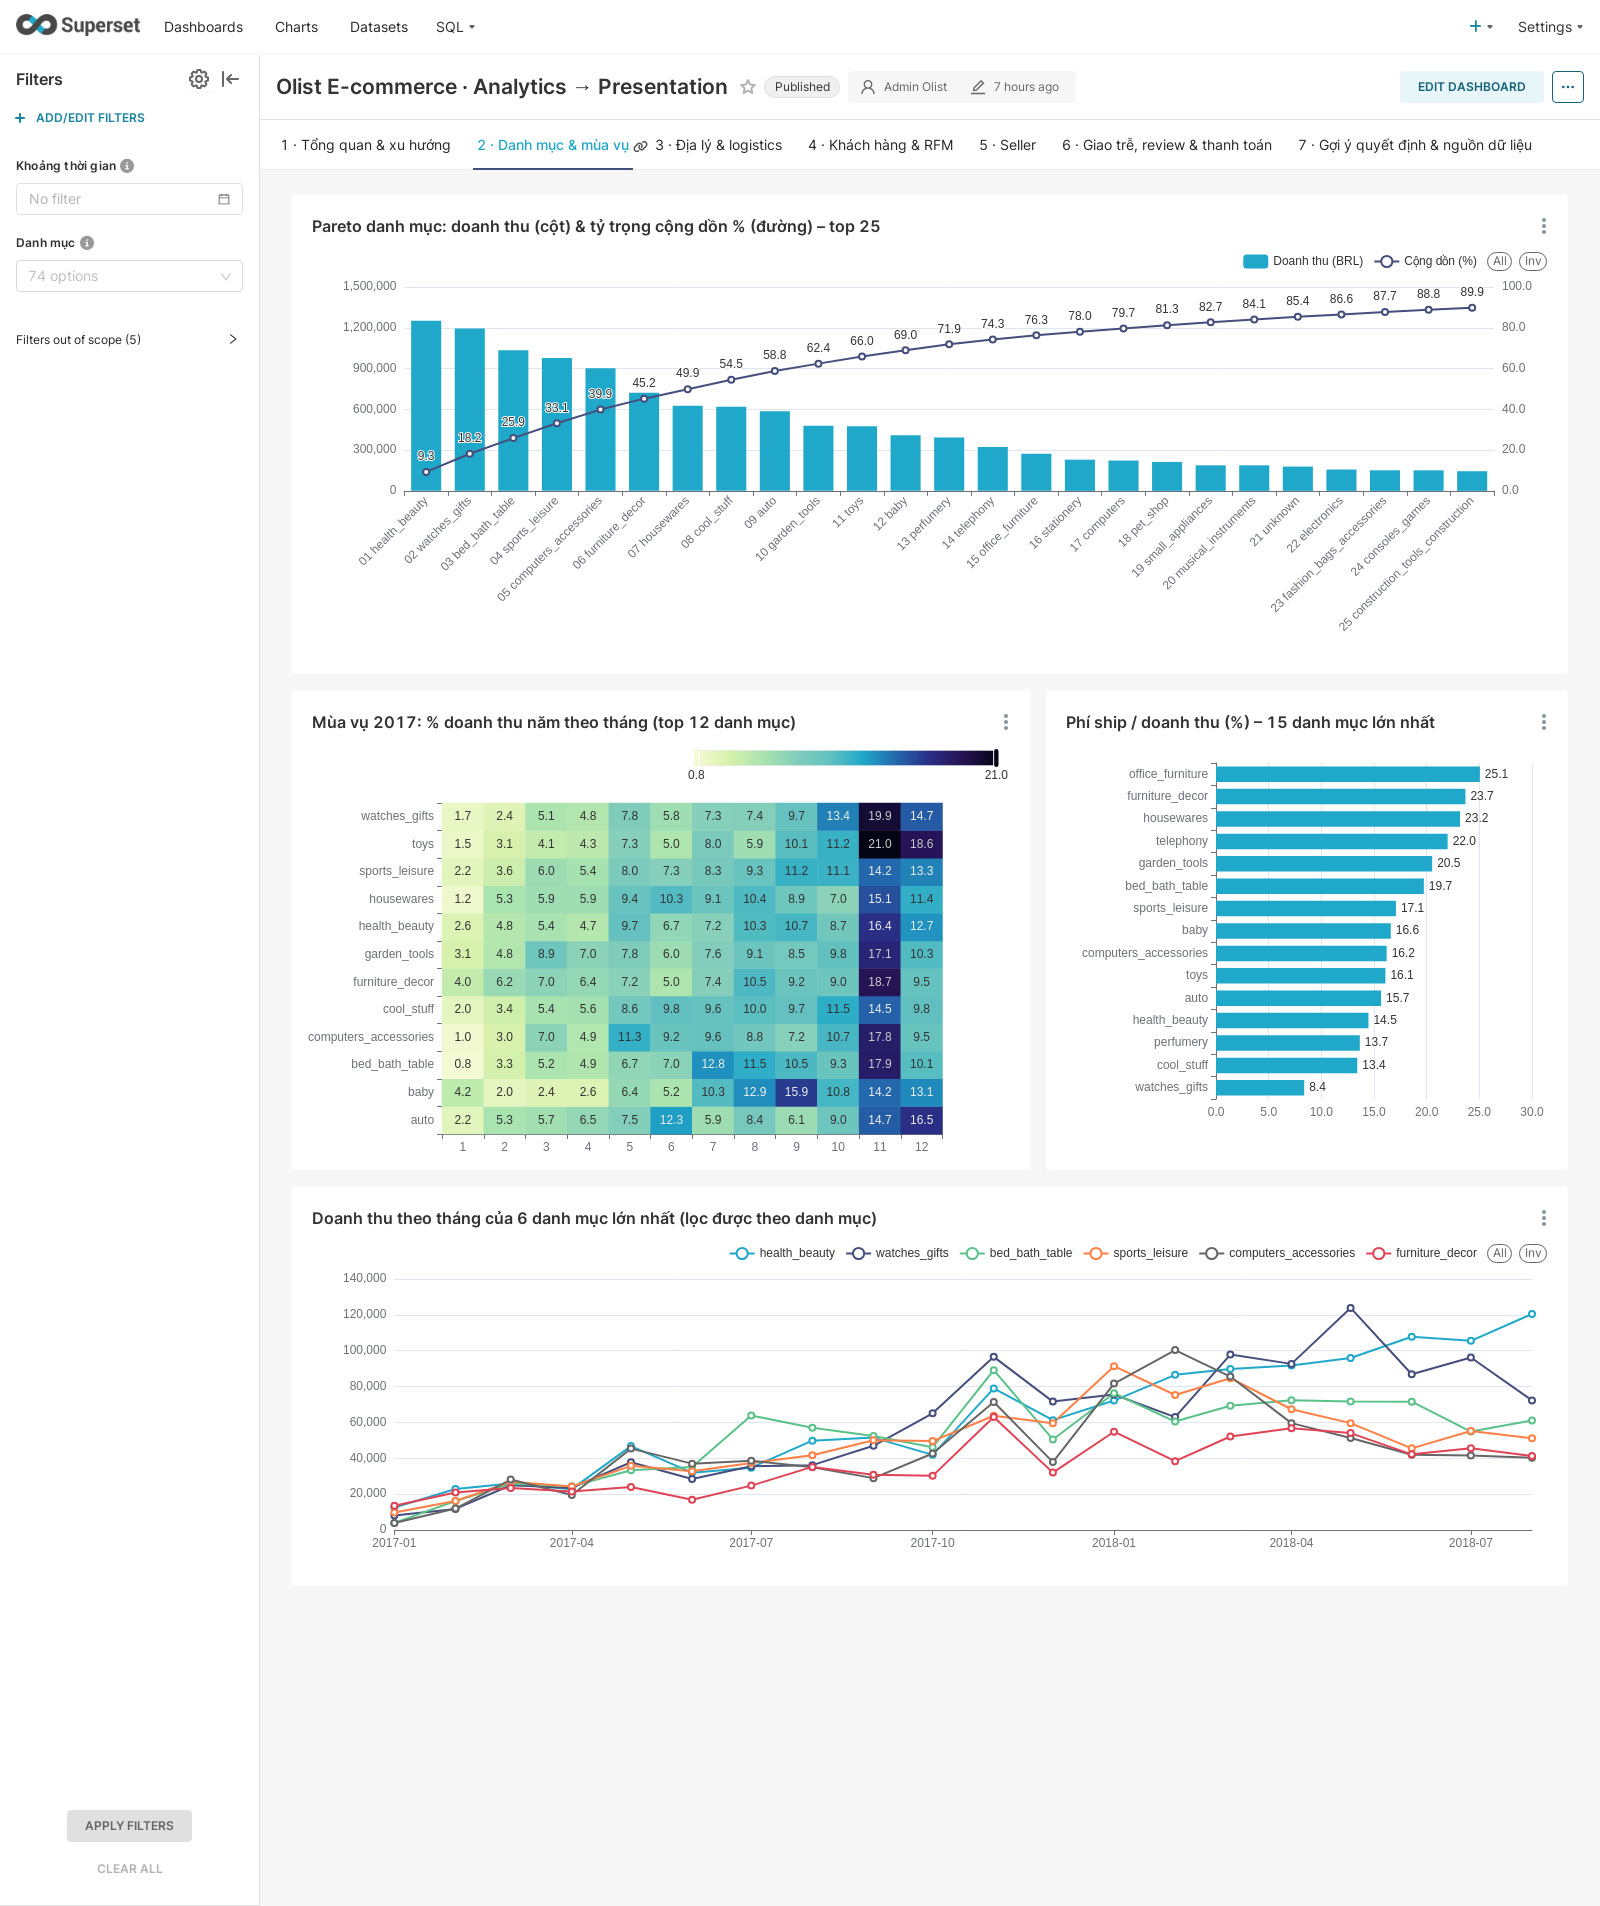
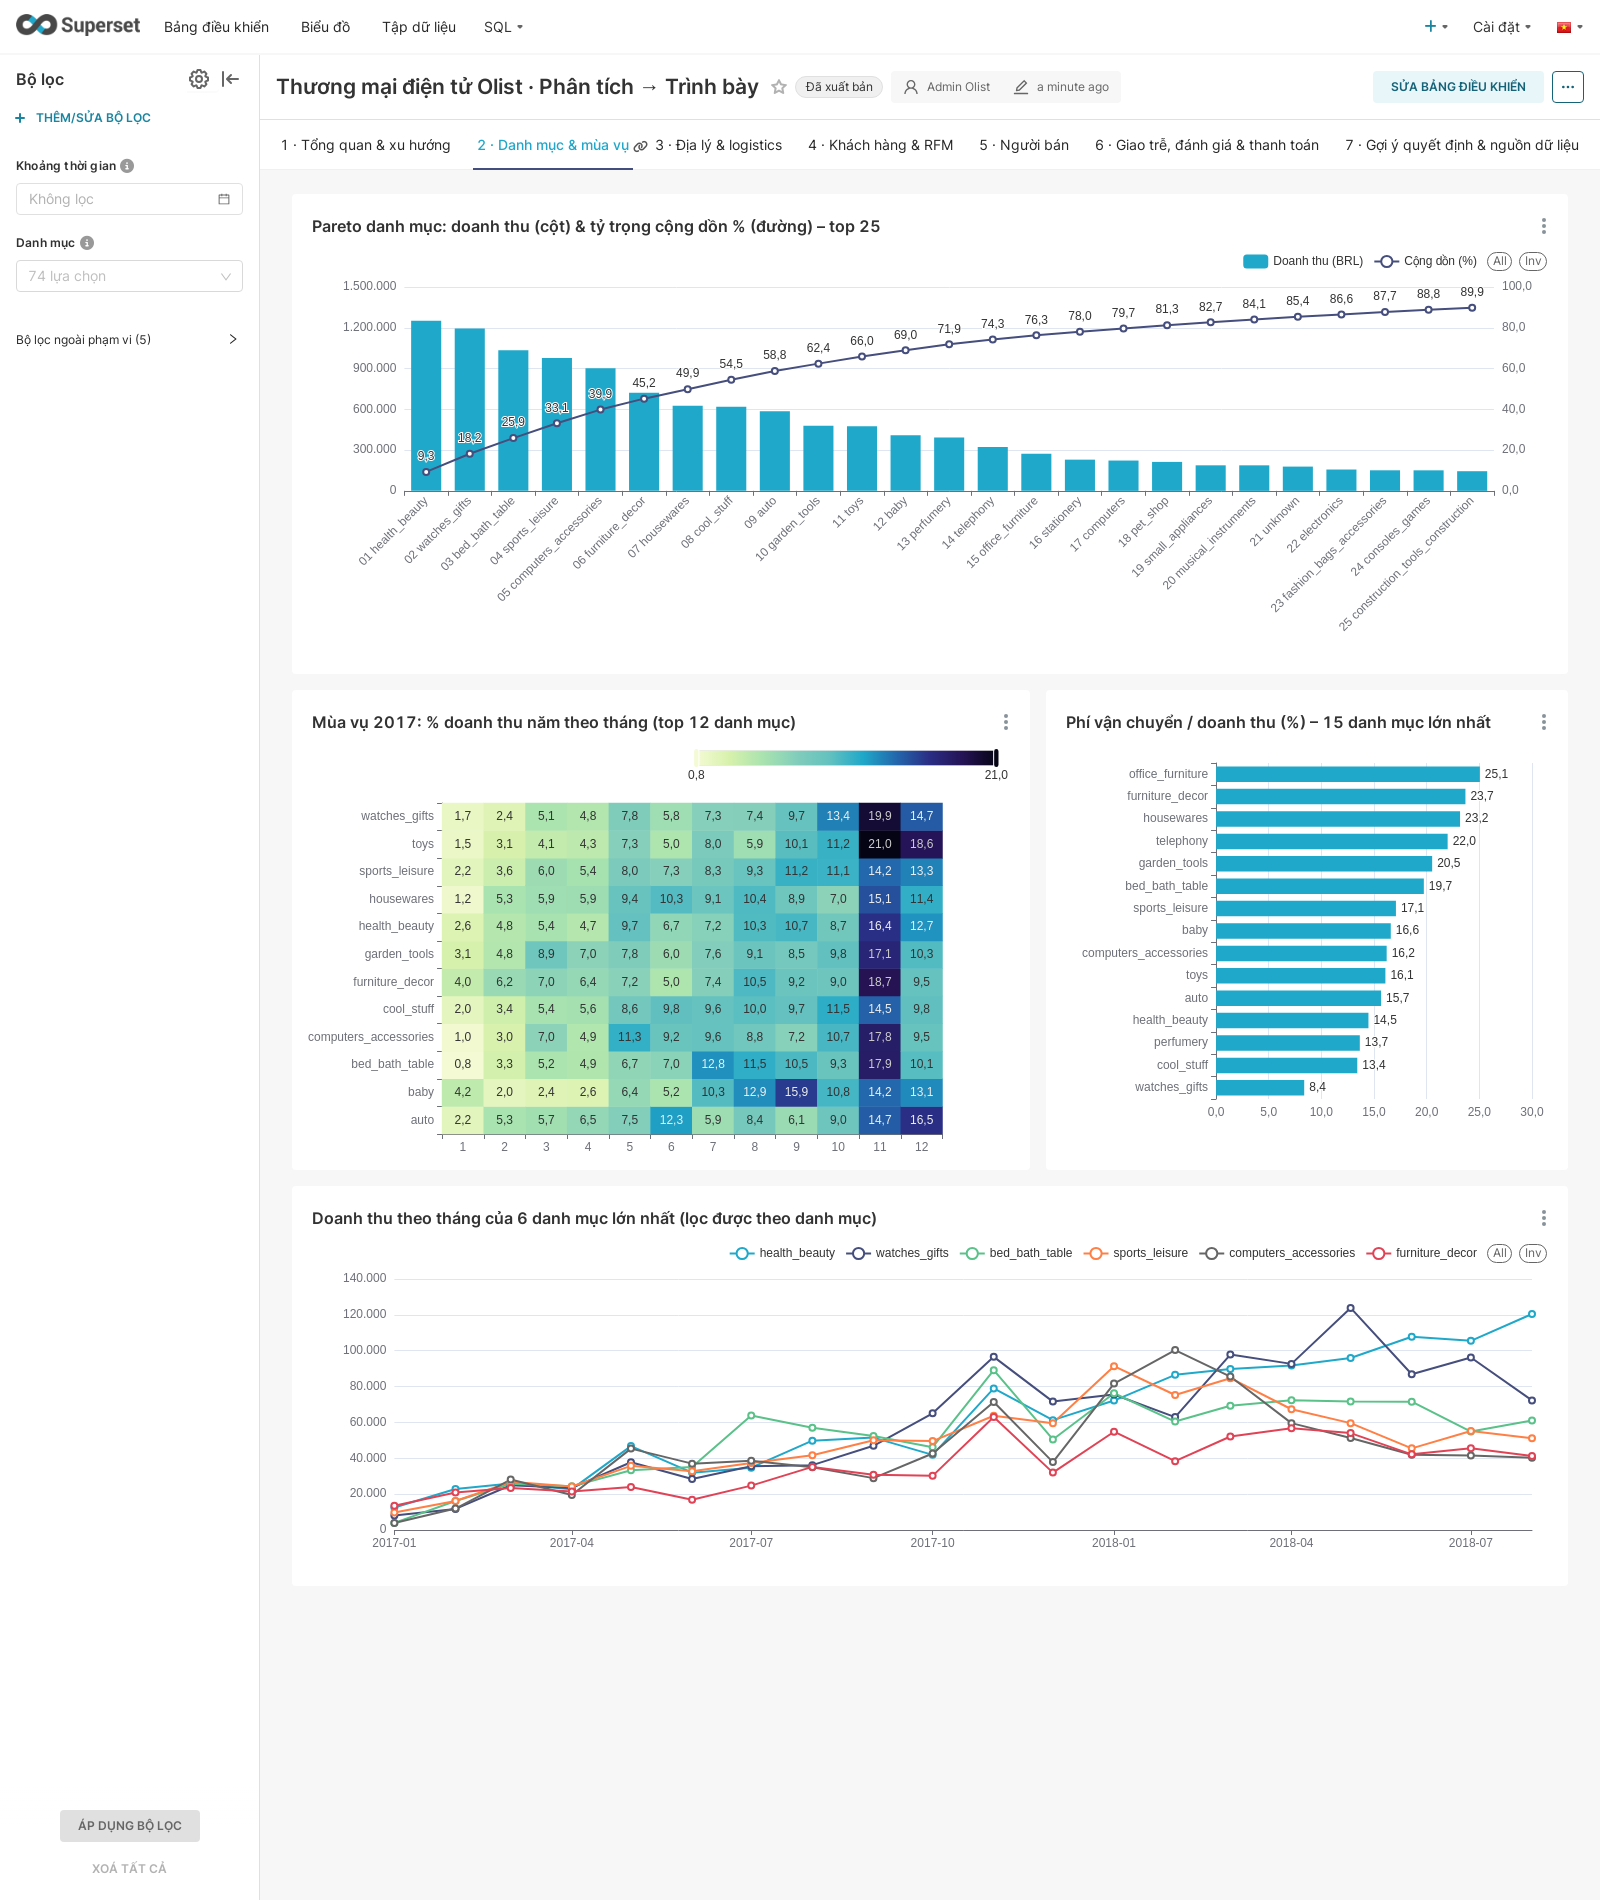
Chup lai anh minh chung voi giao dien Superset tieng Viet; sua anh tab 5 trang (chup viewport thay full-page) va anh bo loc hien nham tab 1 (permalink); ten file tab5 -> nguoi_ban; do lai thoi gian tai cold/cache

diff --git a/scripts/take_screenshots.py b/scripts/take_screenshots.py
@@ -29,8 +29,13 @@ INFO = json.loads((ROOT / "superset" / "export" / "build_info.json").read_text(e
 DASH = f"{URL}/superset/dashboard/{INFO['dashboard_id']}/"
 F = {fid.split("-")[1][2:]: fid for fid in INFO["filters"]}  # 'customerst' -> NATIVE_FILTER-02customerst
 
-TABS = ["tong_quan_xu_huong", "danh_muc_mua_vu", "dia_ly_logistics", "khach_hang_rfm", "seller",
+TABS = ["tong_quan_xu_huong", "danh_muc_mua_vu", "dia_ly_logistics", "khach_hang_rfm", "nguoi_ban",
         "giao_tre_review_thanh_toan", "goi_y_quyet_dinh_nguon_du_lieu"]
+# Tên một chart chỉ có ở mỗi tab – dùng để kiểm tra nội dung đang hiển thị đúng tab trước khi chụp.
+TAB_MARK = ["KPI · Doanh thu (BRL)", "Pareto danh mục", "Bản đồ doanh thu theo bang", "KPI · Khách hàng (RFM)",
+            "KPI · Số người bán", "Điểm đánh giá TB: giao trễ và đúng hạn", "Gợi ý quyết định (luật"]
+SHOWN_JS = """() => [...document.querySelectorAll('.dashboard-component-chart-holder')]
+    .filter(h => h.offsetParent !== null).map(h => h.innerText || '').join('\\n')"""
 
 STATE_JS = """() => {
     const hs = [...document.querySelectorAll('.dashboard-component-chart-holder')]
@@ -62,7 +67,7 @@ FILTERS = [
     ("filter_tab4_rfm_khach_mua_lai_bang_RJ", 3,
      {**select("rfmsegment", "rfm_segment", ["Champions", "Loyal", "At Risk"]),
       **select("customerst", "customer_state", ["RJ"])}),
-    ("filter_tab5_bang_seller_SP", 4, select("sellerstat", "seller_state", ["SP"])),
+    ("filter_tab5_bang_nguoi_ban_SP", 4, select("sellerstat", "seller_state", ["SP"])),
     ("filter_tab6_pttt_boleto", 5, select("mainpaymen", "main_payment_type", ["boleto"])),
 ]
 
@@ -83,6 +88,26 @@ def wait_rendered(page, timeout_s: float = 180) -> tuple[float, dict]:
 def open_tab(page, idx: int) -> tuple[float, dict]:
     page.locator('[role="tab"]').nth(idx).click()
     return wait_rendered(page)
+
+
+def switch_tab(page, idx: int) -> tuple[float, dict]:
+    # Permalink có activeTabs chỉ tô tiêu đề tab, nội dung vẫn là tab 1; bấm lại tab đang "active" không có tác dụng.
+    page.locator('[role="tab"]').nth(1 if idx == 0 else 0).click()
+    wait_rendered(page)
+    return open_tab(page, idx)
+
+
+def shoot(page, path: Path, idx: int) -> None:
+    # Chỉ chụp viewport: full_page buộc Chromium nới viewport (1900 → 1906 px) và Superset 4.1 gỡ toàn bộ
+    # lưới chart của tab 5 khi resize, ảnh ra trắng. Viewport 1900 px đã chứa trọn nội dung mỗi tab.
+    for _ in range(3):
+        if TAB_MARK[idx] in page.evaluate(SHOWN_JS):
+            page.screenshot(path=str(path))
+            if TAB_MARK[idx] in page.evaluate(SHOWN_JS):
+                return
+        switch_tab(page, idx)
+        page.wait_for_timeout(1500)
+    raise RuntimeError(f"tab {idx + 1} không hiển thị đúng nội dung khi chụp {path.name}")
 
 
 def main() -> None:
@@ -126,8 +151,8 @@ def main() -> None:
                 rec[f"{run}_errors"] = len(st["errors"])
                 if run == "cold":
                     page.wait_for_timeout(1500)
-                    page.screenshot(path=str(EVID / f"dashboard_tab{i + 1}_{slug}.png"), full_page=True)
-                    if slug == "seller":
+                    shoot(page, EVID / f"dashboard_tab{i + 1}_{slug}.png", i)
+                    if slug == "nguoi_ban":
                         page.locator(".dashboard-component-chart-holder", has_text="Người bán cần theo dõi (watchlist)").first \
                             .screenshot(path=str(EVID / "watchlist_seller_canh_bao.png"))
                     if slug.startswith("goi_y"):
@@ -148,9 +173,9 @@ def main() -> None:
                                  headers=headers)
             page.goto(f"{URL}/superset/dashboard/p/{r.json()['key']}/", wait_until="domcontentloaded")
             page.wait_for_selector('[role="tab"]', timeout=120000)
-            secs, st = open_tab(page, idx)
+            secs, st = wait_rendered(page) if idx == 0 else switch_tab(page, idx)
             page.wait_for_timeout(1500)
-            page.screenshot(path=str(EVID / f"{name}.png"), full_page=True)
+            shoot(page, EVID / f"{name}.png", idx)
             load_rows.append({"kind": "filter", "scenario": name, "components": st["n"], "cold_s": round(secs, 2),
                               "warm_s": "", "errors": len(st["errors"])})
             print(f"[filter] {name:<45} {secs:6.2f}s  lỗi={st['errors']}", flush=True)

diff --git a/evidence/dashboard_load_latency.md b/evidence/dashboard_load_latency.md
@@ -1,7 +1,7 @@
 # Thời gian tải dashboard Superset: cold vs cache
 
-Đo ngày 2026-11-12 bằng `scripts/take_screenshots.py` (Playwright + Chromium headless, viewport 1600×1900),
-Superset 4.1.2 trong Docker (4 worker gunicorn), dữ liệu trên Neon `aws-ap-southeast-1` (0,25 CU).
+Đo ngày 2026-11-13 bằng `scripts/take_screenshots.py` (Playwright + Chromium headless, viewport 1600×1900),
+Superset 4.1.2 giao diện tiếng Việt trong Docker (4 worker gunicorn), dữ liệu trên Neon `aws-ap-southeast-1` (0,25 CU).
 "Cold" = đã xoá cache Superset trước khi chạy, mọi chart phải truy vấn Neon; "cache" = mở lại ngay sau đó
 (cache kết quả 600 s). Thời gian render = từ lúc bấm tab tới khi mọi chart trong tab hết spinner.
 
@@ -9,33 +9,36 @@ Superset 4.1.2 trong Docker (4 worker gunicorn), dữ liệu trên Neon `aws-ap-
 
 | Tab | Số thành phần | Cold (s) | Cache (s) |
 |---|---:|---:|---:|
-| 1 · Tổng quan & xu hướng | 11 | 6,39 | 0,91 |
-| 2 · Danh mục & mùa vụ | 4 | 2,24 | 0,94 |
-| 3 · Địa lý & logistics | 5 | 12,66 | 0,95 |
-| 4 · Khách hàng & RFM | 10 | 9,93 | 1,18 |
-| 5 · Seller | 7 | 5,16 | 2,08 |
-| 6 · Giao trễ, review & thanh toán | 6 | 5,24 | 1,06 |
-| 7 · Gợi ý quyết định & nguồn dữ liệu | 4 | 2,51 | 1,04 |
-| **Trung vị** | | **5,24** | **1,04** |
-| **Tổng 7 tab** | 47 | **44,13** | **8,16** |
+| 1 · Tổng quan & xu hướng | 11 | 6,64 | 0,98 |
+| 2 · Danh mục & mùa vụ | 4 | 3,98 | 1,13 |
+| 3 · Địa lý & logistics | 5 | 4,02 | 1,10 |
+| 4 · Khách hàng & RFM | 10 | 8,38 | 2,50 |
+| 5 · Người bán | 7 | 12,18 | 2,46 |
+| 6 · Giao trễ, đánh giá & thanh toán | 6 | 7,72 | 1,35 |
+| 7 · Gợi ý quyết định & nguồn dữ liệu | 4 | 2,42 | 1,19 |
+| **Trung vị** | | **6,64** | **1,19** |
+| **Tổng 7 tab** | 47 | **45,34** | **10,71** |
 
-Khung dashboard (HTML + JS) tải trong ~3 s. Không chart nào lỗi ở cả hai lượt.
-Áp dụng bộ lọc native (6 kịch bản, ảnh `filter_*.png`): 0,9–2,5 s mỗi lần.
+Khung dashboard (HTML + JS) tải trong ~2,1 s. Không chart nào lỗi ở cả hai lượt.
+Áp dụng bộ lọc native (6 kịch bản, ảnh `filter_*.png`): 2,1–4,7 s mỗi lần, đo từ lúc chuyển sang tab đích
+(đã áp bộ lọc) tới khi các chart trong tab vẽ xong.
 
 ## 2. Theo chart, qua REST API (`superset_chart_latency.csv`)
 
 Replay đúng payload `/api/v1/chart/data` mà trình duyệt gửi, xác thực bằng cookie phiên + header `X-CSRFToken`,
 3 lần mỗi chế độ:
 
-- `force=true` (bỏ cache, Superset mở kết nối mới tới Neon và chạy SQL): trung vị **741 ms**/chart
-  (chart 2 truy vấn như mixed chart ~1,4–1,6 s).
-- Đọc từ cache Superset: trung vị **55 ms**/chart — nhanh hơn ~13 lần.
+- `force=true` (bỏ cache, Superset mở kết nối mới tới Neon và chạy SQL): trung vị **1.880 ms**/chart
+  (1,4–5,1 s; các mixed chart chạy 2 truy vấn mất 3,0–5,1 s).
+- Đọc từ cache Superset: trung vị **75 ms**/chart — nhanh hơn ~25 lần.
 - 44/44 chart đo thành công (Country Map dùng endpoint legacy `explore_json` nên không nằm trong phép replay).
 
 ## 3. Diễn giải
 
-- Thời gian thực thi SQL phía Neon chỉ ~1 ms cho hầu hết view (`query_latency.md`); phần lớn ~740 ms/chart là
-  bắt tay TLS kết nối mới (~1,1 s đo riêng) + round-trip mạng ~105 ms VN → Singapore, vì Superset dùng NullPool.
-- Tab cold chậm nhất (Địa lý, 12,7 s) là do các chart xếp hàng chờ kết nối, không phải do truy vấn nặng.
-- Cache kết quả đưa thời gian mở tab về ~1 s, đủ cho người dùng nghiệp vụ; muốn cold nhanh hơn: đặt Superset cùng
+- Thời gian thực thi SQL phía Neon chỉ ~1 ms cho hầu hết view (`query_latency.md`); phần lớn thời gian mỗi chart là
+  bắt tay TLS kết nối mới (~1,1 s đo riêng) + các round-trip mạng ~105 ms VN → Singapore, vì Superset dùng NullPool.
+- So với lần đo 2026-11-12 (trung vị 741 ms/chart, tab cold 5,24 s), lần này chậm hơn ở phần không cache do đường
+  truyền tới Singapore lúc đo; phần có cache gần như không đổi (55 → 75 ms/chart, 1,04 → 1,19 s/tab).
+- Tab cold chậm nhất (Người bán, 12,2 s) là do các chart xếp hàng chờ kết nối, không phải do truy vấn nặng.
+- Cache kết quả đưa thời gian mở tab về ~1–2,5 s, đủ cho người dùng nghiệp vụ; muốn cold nhanh hơn: đặt Superset cùng
   region với Neon, bật pool kết nối, hoặc làm nóng cache định kỳ (Celery beat).
